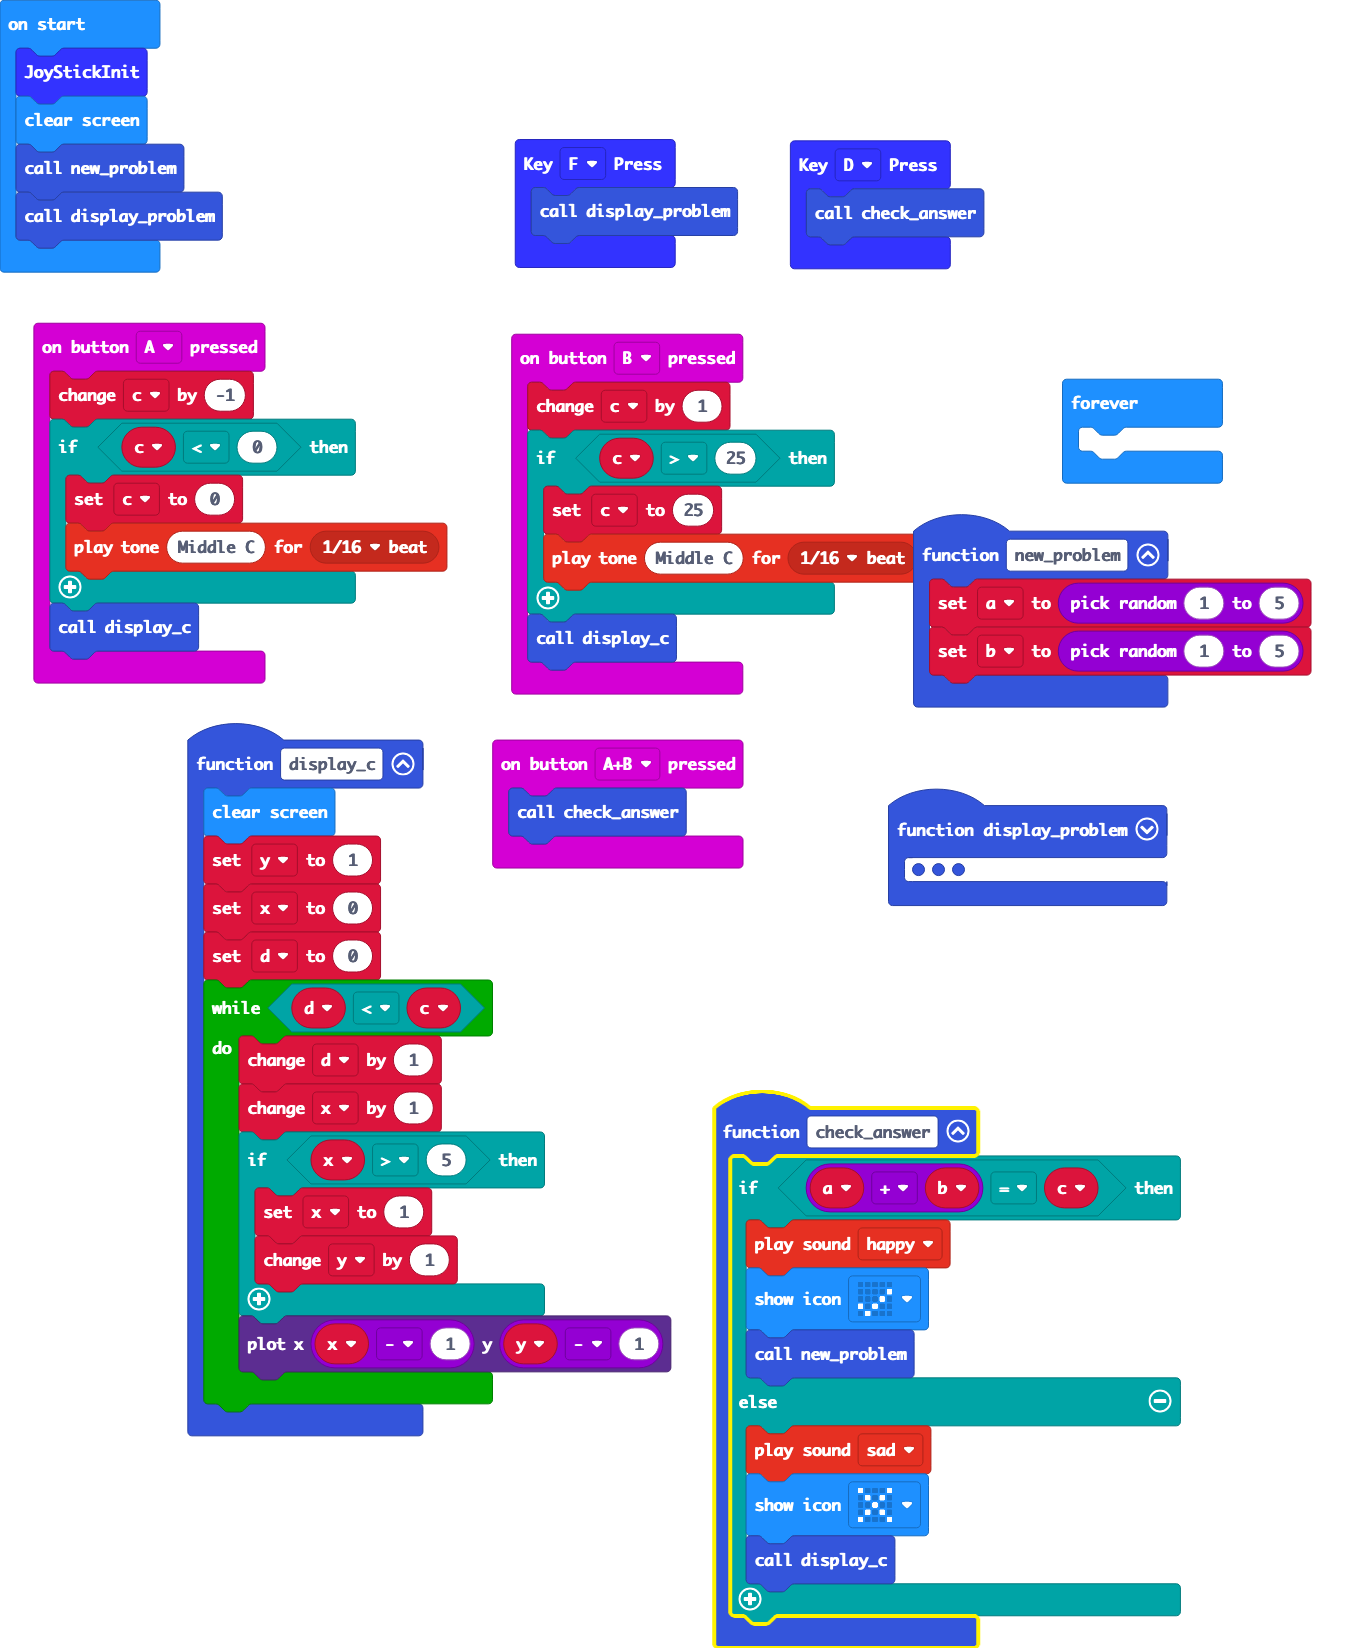
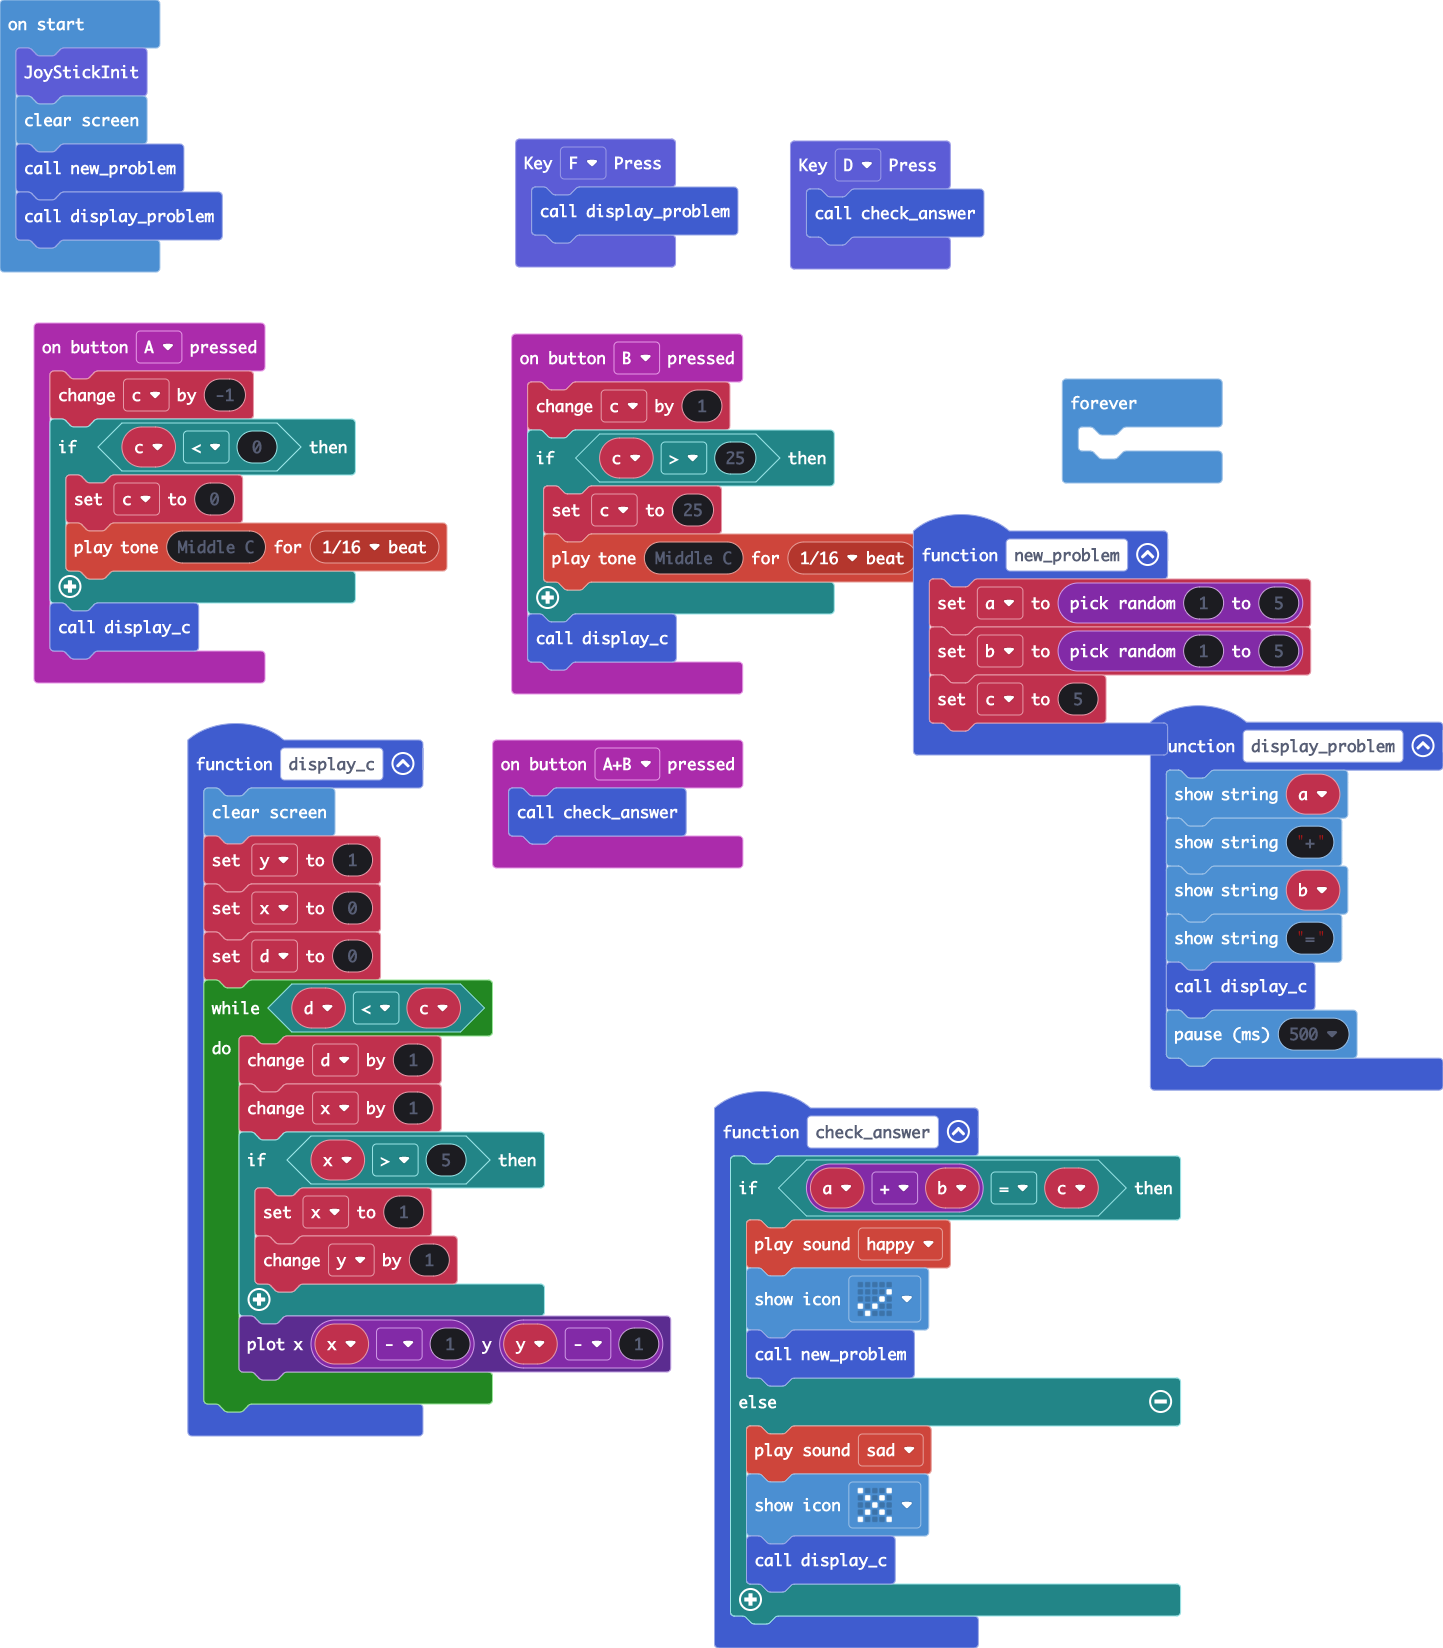
Update main.blocks, main.ts

diff --git a/main.ts b/main.ts
@@ -27,6 +27,7 @@ input.onButtonPressed(Button.A, function () {
 function new_problem () {
     a = randint(1, 5)
     b = randint(1, 5)
+    c = 5
 }
 WSJoyStick.onKey(KEY.D, function () {
     check_answer()
@@ -47,8 +48,8 @@ function display_problem () {
     basic.showString("+")
     basic.showString("" + (b))
     basic.showString("=")
-    c = 3
     display_c()
+    basic.pause(500)
 }
 function check_answer () {
     if (a + b == c) {
